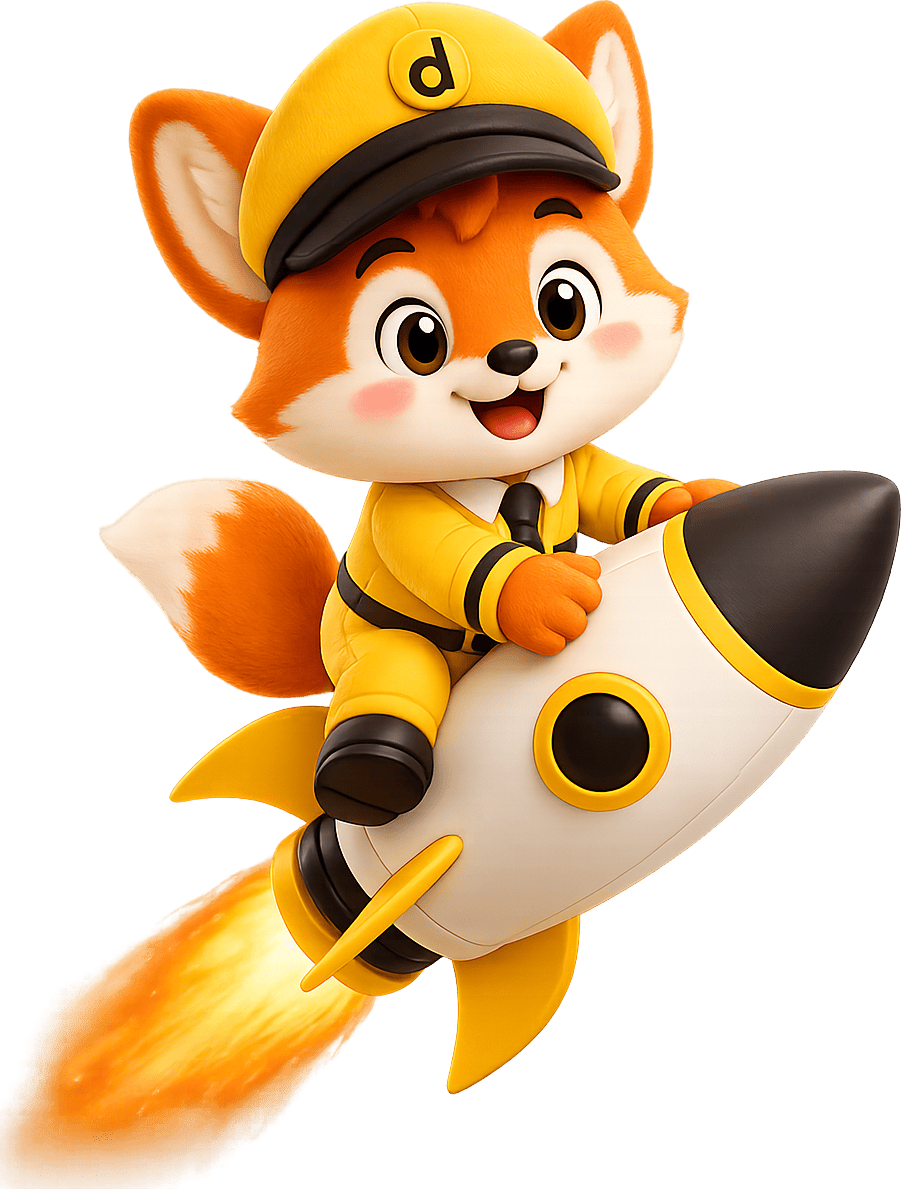
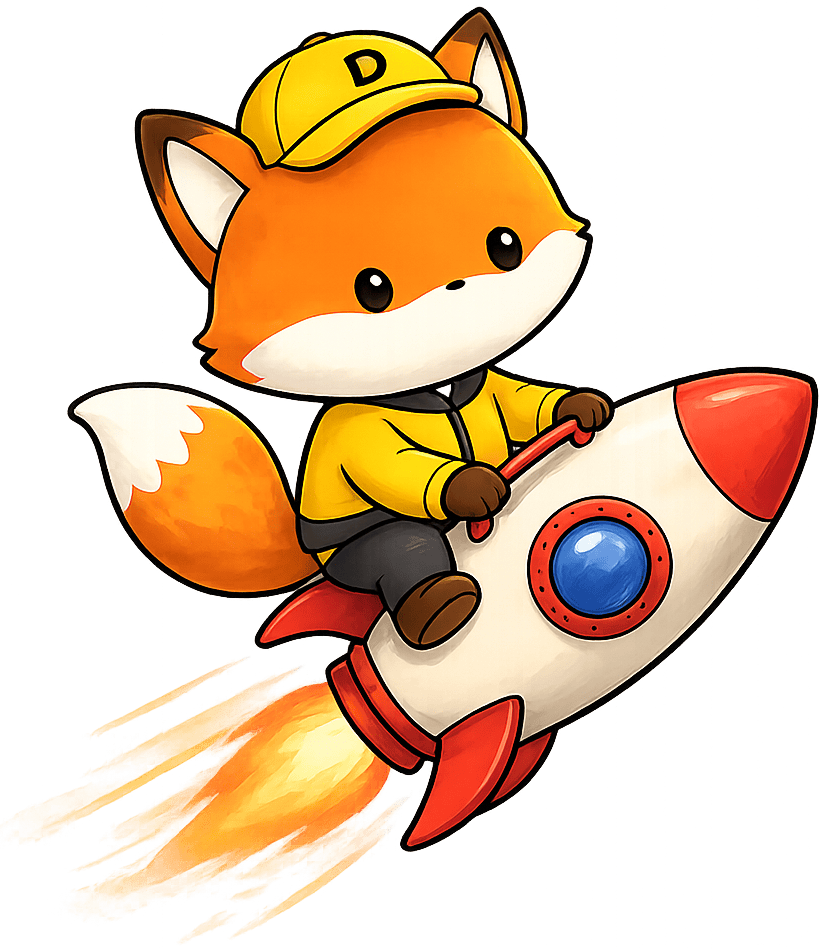
Update hero and examples in docs

diff --git a/docs/src/components/DocsHeader.tsx b/docs/src/components/DocsHeader.tsx
@@ -15,7 +15,7 @@ export function DocsHeader(props: DocsHeaderProps) {
       <div className="border-b border-gray-200 flex items-center justify-between">
         <div className="text-right flex justify-end py-3 px-6">
           <a href="/" className="flex items-center justify-end text-xl font-bold">
-            <img src="/mascot-head.png" alt="driver.js logo" width={639} height={534} className="h-10 w-auto mr-2" />
+            <img src="/mascot-head.png" alt="driver.js logo" width={900} height={775} className="h-10 w-auto mr-2" />
             driver.js
           </a>
         </div>